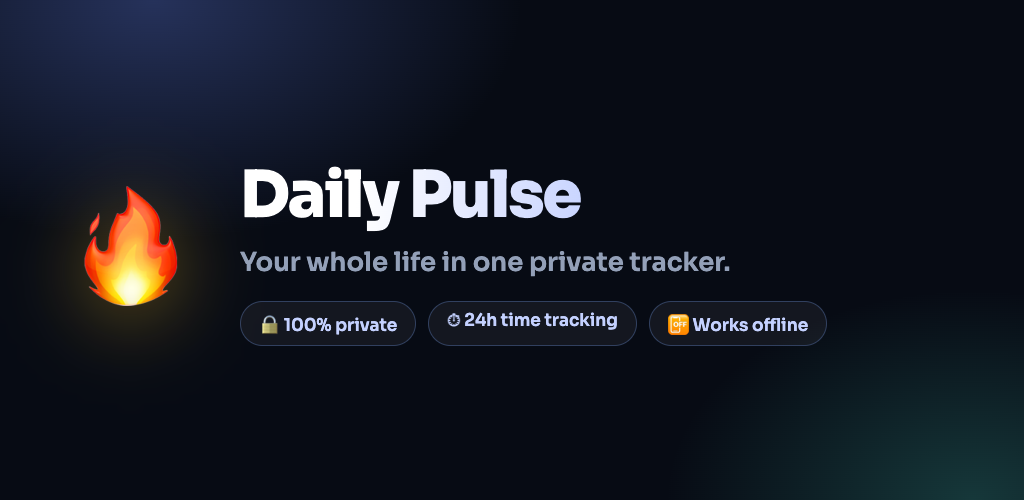
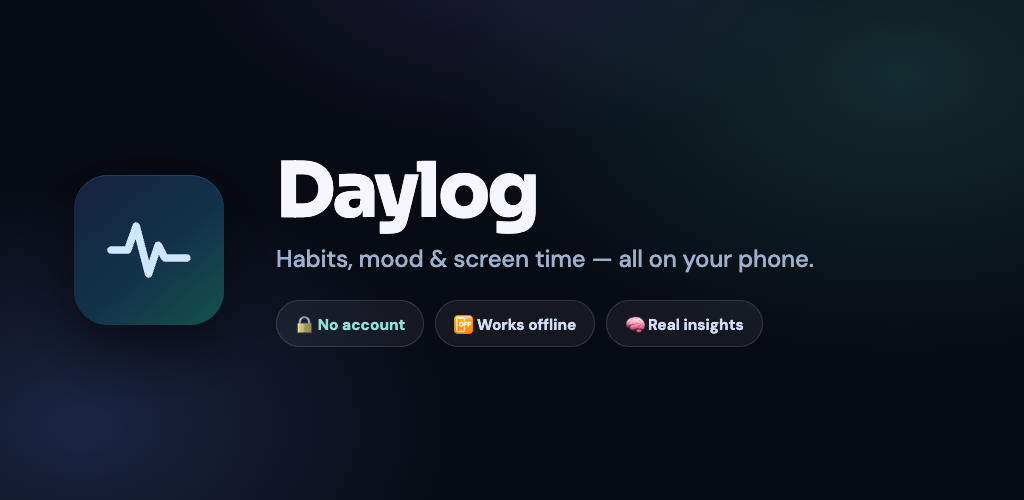
assets: regenerate the 1024x500 feature graphic for Daylog
The old one had 'Daily Pulse' baked into the image. New graphic keeps the pulse mark
(icon continuity) and carries the keyword tagline 'Habits, mood & screen time — all on
your phone' plus the three differentiator chips (No account / Works offline / Real
insights). Source kept at tools/feature-graphic.html so it's re-editable; old one
archived as .feature-graphic-old-dailypulse.png.

diff --git a/tools/feature-graphic.html b/tools/feature-graphic.html
@@ -1,0 +1,37 @@
+<!DOCTYPE html><html><head><meta charset="utf-8">
+<link href="https://fonts.googleapis.com/css2?family=Sora:wght@600;700;800&family=DM+Sans:wght@500;700&display=swap" rel="stylesheet">
+<style>
+  *{margin:0;padding:0;box-sizing:border-box}
+  body{width:1024px;height:500px;overflow:hidden;background:#070b14;font-family:'DM Sans',system-ui,sans-serif;
+    background-image:
+      radial-gradient(70% 90% at 88% 15%, rgba(74,214,192,.16), transparent 62%),
+      radial-gradient(60% 80% at 8% 85%, rgba(109,140,255,.20), transparent 60%),
+      radial-gradient(50% 60% at 50% -10%, rgba(143,123,255,.14), transparent 65%);}
+  .wrap{display:flex;align-items:center;height:100%;padding:0 74px;gap:52px}
+  .mark{flex:0 0 auto;width:150px;height:150px;border-radius:34px;display:grid;place-items:center;
+    background:linear-gradient(140deg,#16233f 0%,#12324a 55%,#14524c 100%);
+    box-shadow:0 22px 60px rgba(0,0,0,.55), inset 0 1px 0 rgba(255,255,255,.10)}
+  .mark svg{width:96px;height:96px}
+  h1{font-family:'Sora';font-size:76px;font-weight:800;letter-spacing:-2.5px;color:#f4f7ff;line-height:1}
+  .tag{font-size:24px;font-weight:500;color:#9fb0cc;margin-top:14px;letter-spacing:-.2px}
+  .chips{display:flex;gap:11px;margin-top:26px}
+  .chip{font-size:15.5px;font-weight:700;color:#d3ddf5;background:rgba(255,255,255,.055);
+    border:1px solid rgba(255,255,255,.13);border-radius:999px;padding:10px 18px;white-space:nowrap}
+  .chip b{color:#8fe3d4;font-weight:700}
+</style></head><body>
+<div class="wrap">
+  <div class="mark">
+    <svg viewBox="0 0 24 24" fill="none" stroke="#cfe6ff" stroke-width="1.9" stroke-linecap="round" stroke-linejoin="round">
+      <path d="M2.5 12h4.2l2.1-6 3.1 12 2.4-7.2 1.7 3.2h5.5"/>
+    </svg>
+  </div>
+  <div>
+    <h1>Daylog</h1>
+    <div class="tag">Habits, mood &amp; screen time — all on your phone.</div>
+    <div class="chips">
+      <span class="chip">🔒 <b>No account</b></span>
+      <span class="chip">📴 Works offline</span>
+      <span class="chip">🧠 Real insights</span>
+    </div>
+  </div>
+</div></body></html>

diff --git a/store/play-listing.md b/store/play-listing.md
@@ -153,7 +153,7 @@ All 412×820 (ratio 1.99, inside Play's ≤2:1 limit). **Dark-theme alternates**
 `store/assets/device-shots/dark/` — use them in a free **Play Store Listing Experiment** to A/B
 light vs dark (conversion rate is a direct ranking input).
 
-⚠ **The feature graphic (1024×500) still carries the old name — regenerate before submitting.**
+✅ **Feature graphic regenerated** with the Daylog name + keyword tagline ("Habits, mood & screen time — all on your phone") and the pulse mark kept for icon continuity. Source: `tools/feature-graphic.html` (edit + re-screenshot at 1024×500 to change it).
 
 ## Category
 **Productivity** (or Lifestyle). Do NOT pick "Health & Fitness" — on a *Personal*
